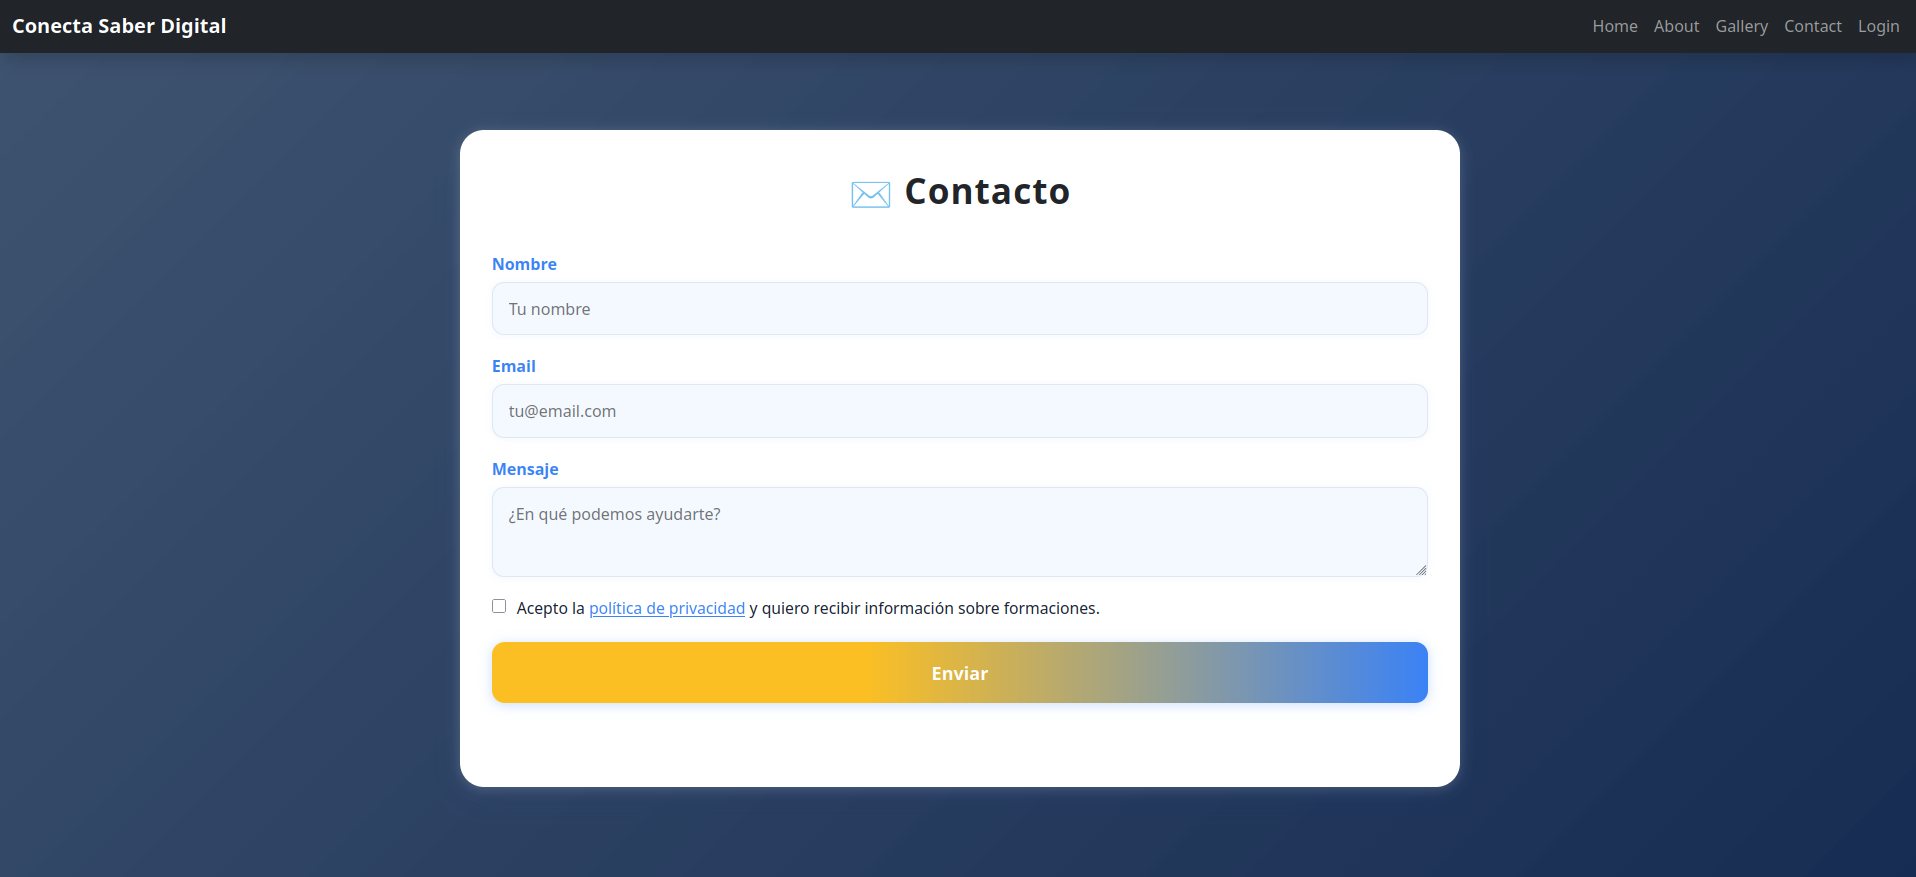
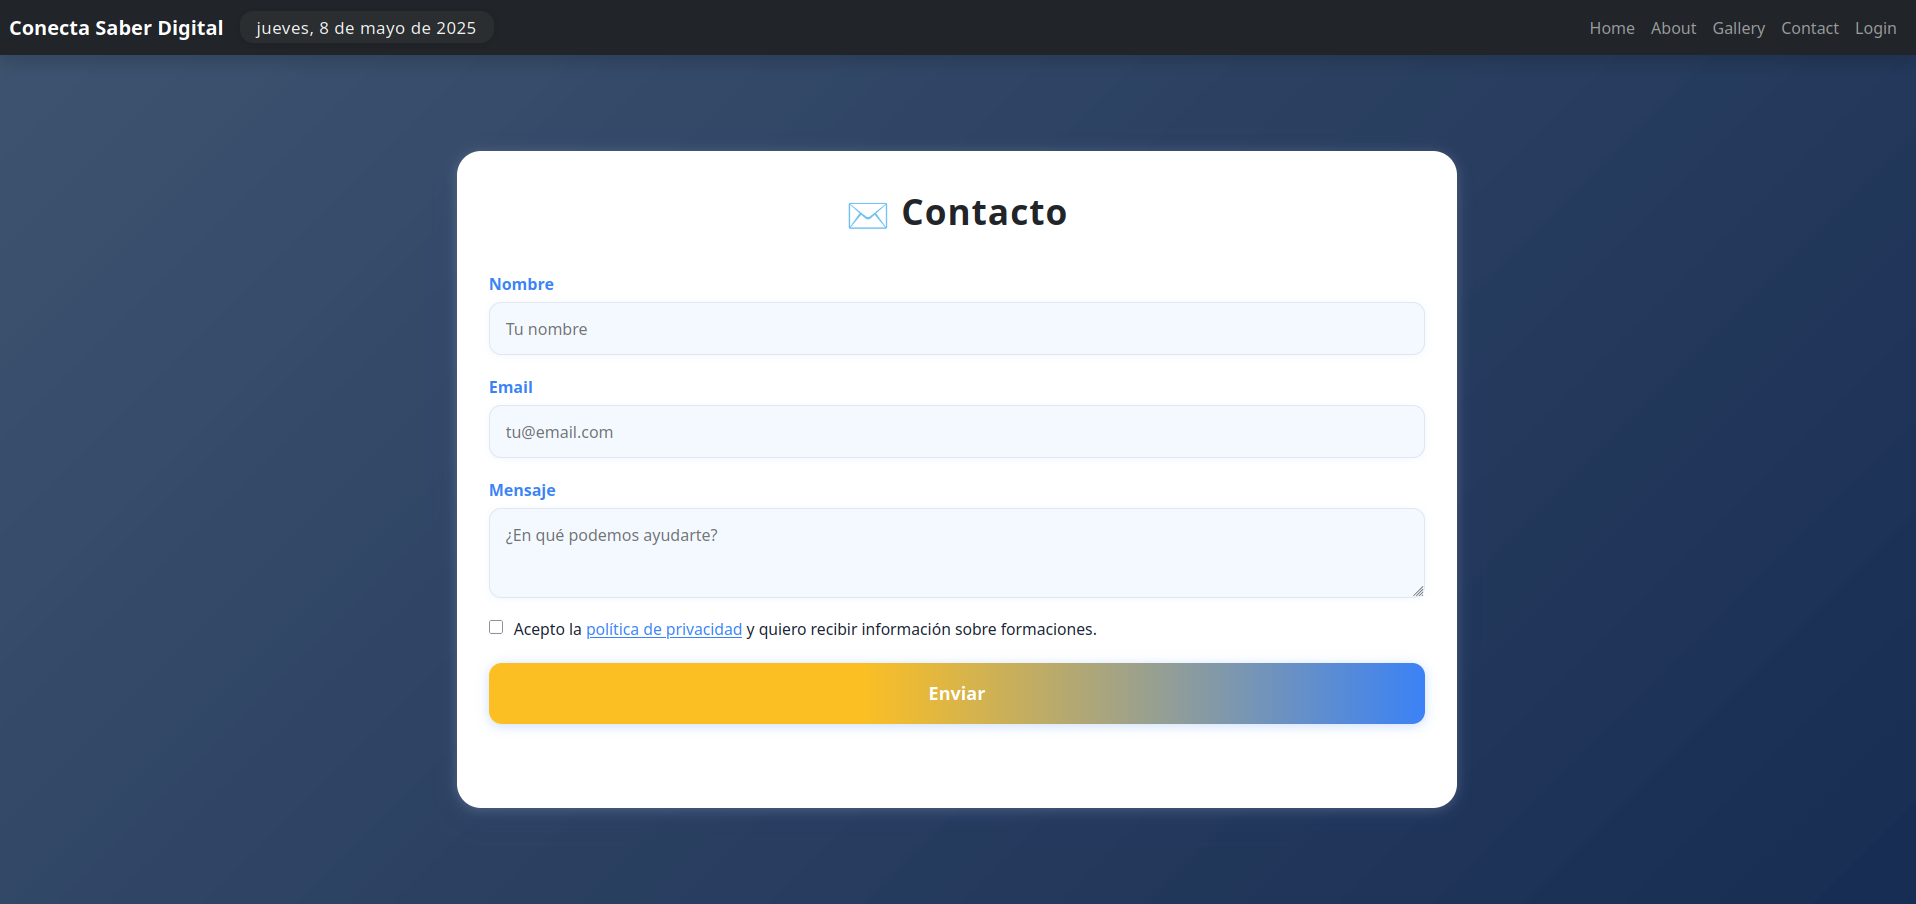
Funcionalidades Javascript agregadas

diff --git a/index.html b/index.html
@@ -2,10 +2,10 @@
 <html lang="es">
 <head>
   <meta charset="UTF-8">
-  <meta name="keywords" content="conocimiento digital, aprendizaje online,transformación digital">
-  <meta name="description" content="Conecta Saber Digital: Descubre cómo la digitalización transforma el aprendizaje, la enseñanza y la difusión del conocimiento.">
   <meta name="viewport" content="width=device-width, initial-scale=1">
-  <title>Conecta Saber Digital</title>
+  <meta name="description" content="Conecta Saber Digital es una plataforma moderna para acceder a formaciones, recursos digitales y aprendizaje colaborativo. Descubre cursos, comunidad y herramientas para potenciar tu conocimiento en la era digital.">
+  <meta name="keywords" content="formación digital, recursos educativos, aprendizaje online, cursos digitales, comunidad educativa, Conecta Saber Digital, educación digital, plataforma educativa, aprendizaje colaborativo, tecnología educativa">
+  <title> Conecta Saber Digital || Aprendizaje Colaborativo || Formación Digital</title>
   <link href="https://cdn.jsdelivr.net/npm/bootstrap@5.3.2/dist/css/bootstrap.min.css" rel="stylesheet">
   <link href="https://cdn.jsdelivr.net/npm/bootstrap-icons@1.11.3/font/bootstrap-icons.css" rel="stylesheet">
   <link rel="stylesheet" href="css/style.css">
@@ -14,8 +14,9 @@
 <body>
   
   <nav class="navbar navbar-expand-lg navbar-dark bg-dark fixed-top shadow">
-  <div class="container-fluid">
+  <div class="container-fluid">   
   <a class="navbar-brand fw-bold" href="#home">Conecta Saber Digital</a>
+  <p id="fecha-actual" class="mb-0"></p>
   <button class="navbar-toggler" type="button" data-bs-toggle="collapse" data-bs-target="#navbarNav">
   <span class="navbar-toggler-icon" ></span>
   </button>
@@ -81,24 +82,25 @@
 <section id="galeria" class="section-full galeria-section">
   <div class="container">
     <h2 class="galeria-title animate-title">Galería de Formaciones</h2>   
+    <p class="galeria-hint"><span class="hint-icon">👆</span>Haz clic en cualquier imagen para ver su versión alternativa.</p> 
     <div class="galeria-grid" id="galeria-grid">
-    <div class="galeria-item">
-    <img id="imagen-1" src="assets/imagines/Aprendizaje remoto.jpg" alt="Imagen 1" class="galeria-img">
-    </div>
-    <div class="galeria-item">
-    <img id="imagen-2" src="assets/imagines/Digital.jpg" alt="Imagen 2" class="galeria-img">
-    </div>
-    <div class="galeria-item">
-        <img id="imagen-3" src="assets/imagines/memory.jpg" alt="Imagen 3" class="galeria-img">
-    </div>
-    <div class="galeria-item">
-        <img id="imagen-6" src="assets/imagines/Videochat-image.jpg" alt="Imagen 4" class="galeria-img">
-        </div>
-     <div class="galeria-item">
-         <img id="imagen-4" src="assets/imagines/grp formacion.jpg" alt="Imagen 5" class="galeria-img">
+      <div class="galeria-item">
+        <img id="imagen-1" src="assets/imagines/Aprendizaje remoto.jpg" data-alt-src="assets/imagines/cerebro.jpg" alt="Imagen 1" class="galeria-img">
       </div>
       <div class="galeria-item">
-          <img id="imagen-5" src="assets/imagines/libros electronicos.jpg" alt="Imagen 6" class="galeria-img">
+        <img id="imagen-2" src="assets/imagines/Digital.jpg" data-alt-src="assets/imagines/laptops class.jpg" alt="Imagen 2" class="galeria-img">
+      </div>
+      <div class="galeria-item">
+        <img id="imagen-3" src="assets/imagines/memory.jpg" data-alt-src="assets/imagines/online courses.jpg" alt="Imagen 3" class="galeria-img">
+      </div>
+      <div class="galeria-item">
+        <img id="imagen-6" src="assets/imagines/Videochat-image.jpg" data-alt-src="assets/imagines/Certificate.jpg" alt="Imagen 4" class="galeria-img">
+      </div>
+      <div class="galeria-item">
+        <img id="imagen-4" src="assets/imagines/grp formacion.jpg" data-alt-src="assets/imagines/technologia.jpg" alt="Imagen 5" class="galeria-img">
+      </div>
+      <div class="galeria-item">
+        <img id="imagen-5" src="assets/imagines/libros electronicos.jpg" data-alt-src="assets/imagines/aula-virtual3.jpg" alt="Imagen 6" class="galeria-img">
       </div>
       </div>
     </div>
@@ -159,17 +161,20 @@
     <div class="password-container">
       <input type="password" id="password" name="password" placeholder="Tu contraseña" required>
       <button type="button" id="togglePassword" class="toggle-password-btn" aria-label="Mostrar u ocultar contraseña">
-        <span id="eyeEmoji"</span>
-        </button>
+        <span id="eyeEmoji">🙈</span>
+      </button>
       </div>
       </div>
       <div class="login-check">
-        <input type="checkbox" id="recordar">
-        <label for="recordar">Recordarme</label>
+        <input type="checkbox" id="aceptar-condiciones">
+        <label for="aceptar-condiciones">
+          Acepto las <a href="#" target="_blank">condiciones de uso</a>
+        </label>
       </div>
-      <button type="submit" class="login-btn">
+      <button type="submit" class="login-btn" id="login-btn" disabled>
         <span>Iniciar sesión</span>
       </button>
+      
     </form>
     <div id="login-msg" class="login-msg"></div>
   </div>
@@ -185,11 +190,13 @@
     <a href="https://instagram.com/" target="_blank" class="footer-icon" aria-label="Instagram"><svg viewBox="0 0 24 24" class="footer-svg"><path d="M12 2.2c3.2 0 3.584.012 4.85.07 1.17.056 1.97.24 2.43.41a4.92 4.92 0 0 1 1.77 1.03 4.92 4.92 0 0 1 1.03 1.77c.17.46.355 1.26.41 2.43.058 1.266.07 1.65.07 4.85s-.012 3.584-.07 4.85c-.056 1.17-.24 1.97-.41 2.43a4.92 4.92 0 0 1-1.03 1.77 4.92 4.92 0 0 1-1.77 1.03c-.46.17-1.26.355-2.43.41-1.266.058-1.65.07-4.85.07s-3.584-.012-4.85-.07c-1.17-.056-1.97-.24-2.43-.41a4.92 4.92 0 0 1-1.77-1.03 4.92 4.92 0 0 1-1.03-1.77c-.17-.46-.355-1.26-.41-2.43C2.212 15.784 2.2 15.4 2.2 12s.012-3.584.07-4.85c.056-1.17.24-1.97.41-2.43a4.92 4.92 0 0 1 1.03-1.77A4.92 4.92 0 0 1 5.48 2.68c.46-.17 1.26-.355 2.43-.41C8.416 2.212 8.8 2.2 12 2.2zm0-2.2C8.736 0 8.332.012 7.052.07c-1.282.058-2.16.24-2.91.51a6.92 6.92 0 0 0-2.51 1.64A6.92 6.92 0 0 0 .58 4.142c-.27.75-.452 1.628-.51 2.91C.012 8.332 0 8.736 0 12c0 3.264.012 3.668.07 4.948.058 1.282.24 2.16.51 2.91a6.92 6.92 0 0 0 1.64 2.51 6.92 6.92 0 0 0 2.51 1.64c.75.27 1.628.452 2.91.51C8.332 23.988 8.736 24 12 24c3.264 0 3.668-.012 4.948-.07 1.282-.058 2.16-.24 2.91-.51a6.92 6.92 0 0 0 2.51-1.64 6.92 6.92 0 0 0 1.64-2.51c.27-.75.452-1.628.51-2.91.058-1.28.07-1.684.07-4.948 0-3.264-.012-3.668-.07-4.948-.058-1.282-.24-2.16-.51-2.91a6.92 6.92 0 0 0-1.64-2.51A6.92 6.92 0 0 0 19.858.58c-.75-.27-1.628-.452-2.91-.51C15.668.012 15.264 0 12 0zm0 5.838a6.162 6.162 0 1 0 0 12.324 6.162 6.162 0 0 0 0-12.324zm0 10.162a3.999 3.999 0 1 1 0-7.998 3.999 3.999 0 0 1 0 7.998zm7.846-10.406a1.44 1.44 0 1 0 0 2.88 1.44 1.44 0 0 0 0-2.88z" fill="currentColor"/></svg></a>
   </div>
 <div class="footer-copy">
-      &copy; 2025 Conecta Saber Digital. Todos los derechos reservados.
+  &copy; 2025 Conecta Saber Digital. Todos los derechos reservados.
 </div>
 </div>
 </footer>
+
   <script src="https://cdn.jsdelivr.net/npm/bootstrap@5.3.2/dist/js/bootstrap.bundle.min.js"></script>
+  <script src="script/script.js"></script>
 
 </body>
 </html>

diff --git a/script/script.js b/script/script.js
@@ -1,0 +1,140 @@
+
+window.addEventListener('DOMContentLoaded', function() {
+  window.location.hash = '#home';
+});
+
+/*1- funcionalidad : Login de acceso*/
+function mostrarUsuarioNavbar() {
+  const loginData = JSON.parse(localStorage.getItem('login')) || JSON.parse(sessionStorage.getItem('login'));
+  const userNavbar = document.getElementById('user-navbar');
+  const logoutBtn = document.getElementById('logout-btn');
+  const loginLink = document.getElementById('login-link');
+  if (userNavbar && logoutBtn) {
+    if (loginData && loginData.usuario) {
+      userNavbar.textContent = `👤 ${loginData.usuario}`;
+      userNavbar.style.display = 'inline-block';
+      logoutBtn.style.display = 'inline-block';
+      if (loginLink) loginLink.style.display = 'none';
+    } else {
+      userNavbar.textContent = '';
+      userNavbar.style.display = 'none';
+      logoutBtn.style.display = 'none';
+      if (loginLink) loginLink.style.display = 'inline-block';
+    }
+  }
+}
+function actualizarMensajeLogin() {
+  const loginMsg = document.getElementById('login-msg');
+  const loginData = JSON.parse(localStorage.getItem('login')) || JSON.parse(sessionStorage.getItem('login'));
+  if (!loginMsg) return;
+
+  if (window.location.hash === '#login' && loginData && loginData.usuario) {
+    loginMsg.textContent = `¡Bienvenido, ${loginData.usuario}!`;
+    loginMsg.style.color = "#00b4d8";
+  } else {
+    loginMsg.textContent = '';
+  }
+}
+
+
+
+/*2-Funcionalidad : Fecha y dia de la semana*/
+const fechaElemento = document.getElementById('fecha-actual');
+const fecha = new Date();
+
+const opciones = {
+  weekday: 'long',
+  year: 'numeric',
+  month: 'long',
+  day: 'numeric'
+};
+const fechaFormateada = fecha.toLocaleDateString('es-ES',opciones);
+if (fechaElemento) {
+  fechaElemento.textContent = fechaFormateada;
+}
+
+
+/*3-funcionalidad: Deshabilitar el botón login hasta validación de condiciones */
+const loginForm = document.getElementById('loginForm');
+const aceptarCondiciones = document.getElementById('aceptar-condiciones');
+const loginBtn = document.getElementById('login-btn');
+
+if (aceptarCondiciones && loginBtn) {
+  aceptarCondiciones.addEventListener('change', function() {
+    loginBtn.disabled = !this.checked;
+  });
+}
+
+if (loginForm) {
+  loginForm.addEventListener('submit', function(e) {
+    e.preventDefault();
+    const usuario = document.getElementById('usuario').value;
+    const password = document.getElementById('password').value;
+
+    if (usuario && password && aceptarCondiciones.checked) {
+      sessionStorage.setItem('login', JSON.stringify({ usuario }));
+      actualizarMensajeLogin();
+      loginForm.reset();
+      loginBtn.disabled = true;
+      mostrarUsuarioNavbar();
+    }
+  });
+}
+
+/*Logout para cerrar la cessión y volver a la sección Home*/
+const logoutBtn = document.getElementById('logout-btn');
+if (logoutBtn) {
+  logoutBtn.addEventListener('click', function() {
+    localStorage.removeItem('login');
+    sessionStorage.removeItem('login');
+    localStorage.removeItem('contacto');
+    mostrarUsuarioNavbar();
+    if (window.location.hash === '#login') {
+      window.location.hash = '#home';
+      setTimeout(() => {
+        actualizarMensajeLogin(); 
+      }, 10);
+    } else {
+      actualizarMensajeLogin();
+    }
+    const contactoMsg = document.getElementById('contacto-msg');
+    if (contactoMsg) {
+      contactoMsg.textContent = '';
+    }
+  });
+}
+
+/*4-funcionalidad:Cambio de imagines*/
+document.querySelectorAll('.galeria-img').forEach(function(img) {
+  img.setAttribute('data-original-src', img.getAttribute('src'));
+  img.addEventListener('click', function() {
+    if (img.getAttribute('src') === img.getAttribute('data-original-src')) {
+      img.setAttribute('src', img.getAttribute('data-alt-src'));
+    } else {
+      img.setAttribute('src', img.getAttribute('data-original-src'));
+    }
+  });
+});
+
+
+/*Ver y ocultar la contraseña*/
+const passwordInput = document.getElementById('password');
+const togglePasswordBtn = document.getElementById('togglePassword');
+const eyeEmoji = document.getElementById('eyeEmoji');
+
+if (togglePasswordBtn && passwordInput && eyeEmoji) {
+  togglePasswordBtn.addEventListener('click', function() {
+    if (passwordInput.type === "password") {
+      passwordInput.type = "text";
+      eyeEmoji.textContent = "👁";
+    } else {
+      passwordInput.type = "password";
+      eyeEmoji.textContent = "🙈";
+    }
+  });
+}
+
+
+
+
+

diff --git a/css/style.css b/css/style.css
@@ -281,6 +281,25 @@ html, body {
   margin: 0 auto;
   width: 100%;
 }
+
+.galeria-hint {   
+  margin: 0 auto 1.5rem; 
+  text-align: center;   
+  font-size: 1.08rem;
+  color: #234567;
+  background: #eaf6fbcc;
+  padding: 0.5em 1.2em;
+  border-radius: 1em;
+  box-shadow: 0 2px 8px #a1c4fd33;
+  display: block;
+  font-weight: 600;
+  user-select: none;
+}
+.hint-icon {
+  font-size: 1.2em;
+  margin-right: 0.3em;
+  vertical-align: middle;
+}
 .galeria-title {
   color: #234567;
   font-size: 2.3rem;
@@ -663,6 +682,11 @@ html, body {
   text-align: center;
   min-height: 1.5em;
 }
+
+.login-btn[disabled] {
+  opacity: 0.6;
+  cursor: not-allowed;
+}
 .password-container {
   position: relative;
   display: flex;
@@ -757,6 +781,29 @@ html, body {
   margin-top: 0.7rem;
   opacity: 0.93;
 }
+
+#fecha-actual {
+  color: #f1f1f1;            
+  font-size: 1.05rem;          
+  letter-spacing: 0.03em;     
+  font-weight: 500;           
+  padding: 0.2em 1em;      
+  background: rgba(255,255,255,0.04); 
+  border-radius: 0.8em;        
+  margin-left: auto;           
+  margin-right: 0.5em;         
+  display: flex;
+  align-items: center;
+  height: 100%;
+  box-shadow: 0 1px 8px #0002;
+  transition: background 0.2s;
+}
+
+#fecha-actual:hover {
+  background: rgba(255,255,255,0.12); 
+}
+
+
 @media (max-width: 600px) {
   .footer-container {
     padding: 0 0.5rem;

diff --git a/README.md b/README.md
@@ -2,7 +2,7 @@
 
 ## Descripción general
 
-**Conecta Saber Digital** es una landing page moderna, responsive y accesible que presenta la misión, servicios y valores de una plataforma educativa digital. Incluye navegación intuitiva, galería interactiva, sistema de login/logout, formulario de contacto personalizado y un diseño visual atractivo usando HTML, CSS3.  
+**Conecta Saber Digital** es una landing page moderna, responsive y accesible que presenta la misión, servicios y valores de una plataforma educativa digital. Incluye navegación intuitiva, galería interactiva, sistema de login/logout, formulario de contacto personalizado y un diseño visual atractivo usando HTML, CSS3, Javascript.  
 El objetivo es facilitar el acceso a la formación digital y fomentar el aprendizaje colaborativo en comunidad.
 
 ---
@@ -119,6 +119,7 @@ Incluye enlaces a redes sociales con iconos SVG y la información legal.
 
 - **HTML5**: Estructura semántica del sitio.
 - **CSS3**: Estilos personalizados, variables y animaciones.
+- **Javascript**: Funcionalidades con compartamiento de web dinámica.
 
 ---
 
